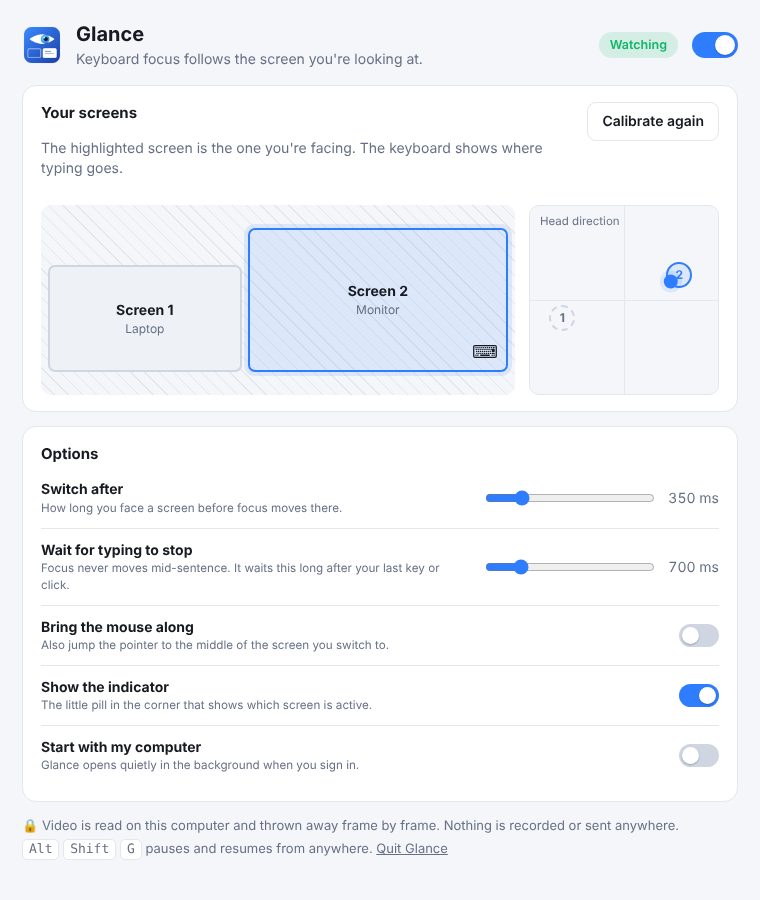
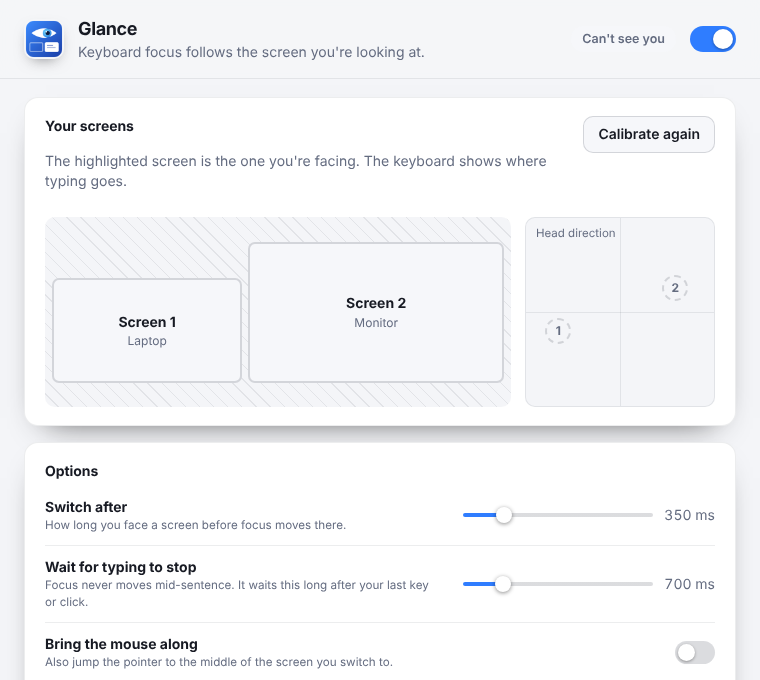
Sleeker settings window
Shared Chipper UI styles: sticky frosted header, cards that ease in,
smoother switches, accent-filled sliders with live values, matching light
and dark themes, and the same type in the calibration and indicator.
Also fixes a broken first rule in settings.css.

Claude-Session: https://claude.ai/code/session_01TZPYSw6e2Wc2aurNbLVprD

diff --git a/src/css/ui.css b/src/css/ui.css
@@ -1,0 +1,146 @@
+/* Chipper UI: the shared look for every Chipper app's windows.
+   Low-specificity (:where) base styles for form controls, so each app's own CSS
+   still wins. Each app sets --accent (and optionally --accent-ink for text on it). */
+:root {
+  --ui-bg: #0d0e12;
+  --ui-panel: #14161c;
+  --ui-panel-2: #1a1d24;
+  --ui-line: rgba(255, 255, 255, 0.075);
+  --ui-line-2: rgba(255, 255, 255, 0.13);
+  --ui-text: #eceef3;
+  --ui-dim: #8b91a1;
+  --ui-faint: #5f6575;
+  --accent: #6c8cff;
+  --accent-ink: #0b0d12;
+  --ui-radius: 14px;
+  --ui-ease: cubic-bezier(.2, .8, .2, 1);
+  --ui-font: Inter, 'Segoe UI Variable Text', 'Segoe UI', -apple-system, BlinkMacSystemFont, 'Helvetica Neue', Ubuntu, Cantarell, sans-serif;
+  --ui-mono: 'JetBrains Mono', 'Cascadia Code', 'SF Mono', Menlo, Consolas, monospace;
+}
+/* Apps that follow the system theme put class="ui-auto" on <html>. */
+@media (prefers-color-scheme: light) {
+  :root.ui-auto {
+    --ui-bg: #f4f5f8; --ui-panel: #ffffff; --ui-panel-2: #f6f7fa; --ui-line: rgba(16, 22, 38, 0.08); --ui-line-2: rgba(16, 22, 38, 0.15);
+    --ui-text: #171a23; --ui-dim: #646c80; --ui-faint: #9aa1b2; color-scheme: light;
+  }
+  :root.ui-auto .ui-card, :root.ui-auto .ui-section { box-shadow: 0 1px 2px rgba(16, 22, 38, 0.04), 0 12px 30px -22px rgba(16, 22, 38, 0.3); }
+}
+:root { color-scheme: dark; }
+[hidden] { display: none !important; }
+
+:where(body) { -webkit-font-smoothing: antialiased; -moz-osx-font-smoothing: grayscale; text-rendering: optimizeLegibility; }
+:where(button, input, select, textarea) { font: inherit; color: inherit; }
+:where(button) { cursor: pointer; }
+
+/* Switches: every checkbox becomes a smooth toggle. */
+:where(input[type=checkbox]) {
+  appearance: none; -webkit-appearance: none; flex: none; margin: 0; cursor: pointer;
+  width: 36px; height: 21px; border-radius: 999px; position: relative; vertical-align: middle;
+  background: var(--ui-line-2); transition: background 0.25s var(--ui-ease), box-shadow 0.2s;
+}
+:where(input[type=checkbox])::after {
+  content: ''; position: absolute; top: 2px; left: 2px; width: 17px; height: 17px; border-radius: 50%;
+  background: #fff; box-shadow: 0 1px 3px rgba(0, 0, 0, 0.35); transition: transform 0.25s var(--ui-ease);
+}
+:where(input[type=checkbox]:checked) { background: var(--accent); }
+:where(input[type=checkbox]:checked)::after { transform: translateX(15px); }
+:where(input[type=checkbox]:disabled) { opacity: 0.4; cursor: default; }
+
+/* Sliders: a thin track that fills with the accent and a soft round thumb. */
+:where(input[type=range]) {
+  appearance: none; -webkit-appearance: none; background: transparent; height: 22px; margin: 0; cursor: pointer;
+  --fill: 50%;
+}
+:where(input[type=range])::-webkit-slider-runnable-track {
+  height: 4px; border-radius: 4px;
+  background: linear-gradient(to right, var(--accent) var(--fill), var(--ui-line-2) var(--fill));
+}
+:where(input[type=range])::-moz-range-track { height: 4px; border-radius: 4px; background: var(--ui-line-2); }
+:where(input[type=range])::-moz-range-progress { height: 4px; border-radius: 4px; background: var(--accent); }
+:where(input[type=range])::-webkit-slider-thumb {
+  -webkit-appearance: none; width: 16px; height: 16px; margin-top: -6px; border-radius: 50%;
+  background: #fff; border: 0; box-shadow: 0 0 0 4px color-mix(in srgb, var(--accent) 0%, transparent), 0 1px 4px rgba(0, 0, 0, 0.45);
+  transition: box-shadow 0.2s, transform 0.15s var(--ui-ease);
+}
+:where(input[type=range])::-moz-range-thumb { width: 16px; height: 16px; border-radius: 50%; background: #fff; border: 0; box-shadow: 0 1px 4px rgba(0, 0, 0, 0.45); }
+:where(input[type=range]:hover)::-webkit-slider-thumb { box-shadow: 0 0 0 5px color-mix(in srgb, var(--accent) 22%, transparent), 0 1px 4px rgba(0, 0, 0, 0.45); }
+:where(input[type=range]:active)::-webkit-slider-thumb { transform: scale(1.1); }
+
+/* Text, number and select fields. */
+:where(input[type=text], input[type=number], input[type=search], input[type=time], input:not([type]), select, textarea) {
+  background: var(--ui-panel-2); border: 1px solid var(--ui-line-2); border-radius: 9px; padding: 7px 10px; outline: none;
+  transition: border-color 0.15s, box-shadow 0.15s;
+}
+:where(input[type=text], input[type=number], input[type=search], input[type=time], input:not([type]), select, textarea):focus {
+  border-color: color-mix(in srgb, var(--accent) 70%, transparent); box-shadow: 0 0 0 3px color-mix(in srgb, var(--accent) 18%, transparent);
+}
+:where(input[type=number]) { -moz-appearance: textfield; font-variant-numeric: tabular-nums; }
+:where(input[type=number])::-webkit-inner-spin-button, :where(input[type=number])::-webkit-outer-spin-button { -webkit-appearance: none; margin: 0; }
+:where(select) {
+  appearance: none; -webkit-appearance: none; padding-right: 28px; cursor: pointer;
+  background-image: linear-gradient(45deg, transparent 50%, var(--ui-dim) 50%), linear-gradient(135deg, var(--ui-dim) 50%, transparent 50%);
+  background-position: calc(100% - 15px) 52%, calc(100% - 10px) 52%; background-size: 5px 5px; background-repeat: no-repeat;
+}
+:where(input::placeholder, textarea::placeholder) { color: var(--ui-faint); }
+
+/* Focus rings only for keyboard users. */
+:where(:focus) { outline: none; }
+:where(:focus-visible) { outline: 2px solid color-mix(in srgb, var(--accent) 80%, transparent); outline-offset: 2px; }
+
+/* Scrollbars that stay out of the way. */
+::-webkit-scrollbar { width: 10px; height: 10px; }
+::-webkit-scrollbar-thumb { background: var(--ui-line-2); border-radius: 10px; border: 3px solid transparent; background-clip: padding-box; }
+::-webkit-scrollbar-thumb:hover { background-color: rgba(255, 255, 255, 0.2); }
+::-webkit-scrollbar-track { background: transparent; }
+
+/* Shared building blocks, used by apps that opt in. */
+.ui-card { background: var(--ui-panel); border: 1px solid var(--ui-line); border-radius: var(--ui-radius); box-shadow: 0 1px 0 rgba(255, 255, 255, 0.03) inset, 0 14px 32px -22px rgba(0, 0, 0, 0.85); }
+.ui-btn { border: 1px solid var(--ui-line-2); background: var(--ui-panel-2); border-radius: 10px; padding: 7px 14px; font-weight: 600; transition: border-color 0.15s, background 0.15s, transform 0.12s; }
+.ui-btn:hover { border-color: rgba(255, 255, 255, 0.25); }
+.ui-btn:active { transform: scale(0.98); }
+.ui-btn.primary { background: var(--accent); color: var(--accent-ink); border-color: transparent; box-shadow: 0 8px 20px -12px var(--accent); }
+.ui-btn.primary:hover { filter: brightness(1.07); }
+
+/* Settings page layout: header, a column of cards, rows of label + control. */
+body.ui { margin: 0; background: var(--ui-bg); color: var(--ui-text); font: 14px/1.45 var(--ui-font); }
+.ui-header { position: sticky; top: 0; z-index: 5; display: flex; align-items: center; gap: 14px; padding: 16px 28px; border-bottom: 1px solid var(--ui-line); background: color-mix(in srgb, var(--ui-bg) 84%, transparent); backdrop-filter: blur(14px); -webkit-backdrop-filter: blur(14px); }
+.ui-header img { width: 40px; height: 40px; border-radius: 10px; box-shadow: 0 6px 16px -8px rgba(0, 0, 0, 0.6); }
+.ui-header h1 { margin: 0; font-size: 18px; font-weight: 700; letter-spacing: -0.02em; }
+.ui-header p { margin: 1px 0 0; color: var(--ui-dim); font-size: 13px; }
+.ui-header .end { margin-left: auto; display: flex; align-items: center; gap: 10px; }
+.ui-page { max-width: 880px; margin: 0 auto; padding: 22px 28px 28px; display: flex; flex-direction: column; gap: 16px; }
+.ui-section { background: var(--ui-panel); border: 1px solid var(--ui-line); border-radius: var(--ui-radius); box-shadow: 0 1px 0 rgba(255, 255, 255, 0.03) inset, 0 14px 32px -22px rgba(0, 0, 0, 0.85); padding: 18px 20px; animation: ui-in 0.45s var(--ui-ease) both; }
+.ui-section:nth-child(2) { animation-delay: 40ms; } .ui-section:nth-child(3) { animation-delay: 80ms; } .ui-section:nth-child(n+4) { animation-delay: 120ms; }
+.ui-section > h2 { margin: 0; font-size: 14px; font-weight: 650; letter-spacing: -0.005em; display: flex; align-items: center; gap: 10px; }
+.ui-section > h2 .end { margin-left: auto; }
+.ui-section > .desc { margin: 3px 0 12px; color: var(--ui-dim); font-size: 13px; }
+.ui-section > h2 + .ui-row { margin-top: 6px; }
+.ui-row { display: flex; align-items: center; gap: 16px; padding: 12px 0; }
+.ui-row + .ui-row { border-top: 1px solid var(--ui-line); }
+.ui-row > .label { flex: 1; min-width: 0; }
+.ui-row > .label b { display: block; font-weight: 600; }
+.ui-row > .label small { display: block; margin-top: 1px; color: var(--ui-dim); font-size: 12.5px; }
+.ui-row input[type=range] { width: min(240px, 40vw); }
+.ui-row output { min-width: 52px; text-align: right; color: var(--ui-dim); font-variant-numeric: tabular-nums; font-size: 13px; }
+.ui-row input[type=text] { width: min(280px, 45vw); }
+.ui-footer { display: flex; align-items: center; justify-content: space-between; gap: 16px; padding: 2px 4px 0; color: var(--ui-faint); font-size: 12.5px; }
+.ui-link { border: 0; background: none; padding: 0; color: var(--ui-dim); text-decoration: underline; text-decoration-color: var(--ui-line-2); text-underline-offset: 3px; }
+.ui-link:hover { color: var(--ui-text); text-decoration-color: currentColor; }
+kbd { font: 11.5px/1.4 var(--ui-mono); padding: 1px 6px; border: 1px solid var(--ui-line-2); border-bottom-width: 2px; border-radius: 6px; background: var(--ui-panel-2); color: var(--ui-dim); }
+.ui-seg { display: inline-flex; padding: 3px; gap: 2px; background: var(--ui-panel-2); border: 1px solid var(--ui-line); border-radius: 10px; }
+.ui-seg button { border: 0; background: none; padding: 5px 12px; border-radius: 7px; color: var(--ui-dim); font-weight: 600; font-size: 13px; transition: background 0.2s, color 0.2s; }
+.ui-seg button:hover { color: var(--ui-text); }
+.ui-seg button.on, .ui-seg button[aria-checked=true], .ui-seg button[aria-pressed=true] { background: var(--ui-panel); color: var(--ui-text); box-shadow: 0 1px 3px rgba(0, 0, 0, 0.3), 0 0 0 1px var(--ui-line); }
+.ui-tile { border: 1px solid var(--ui-line); background: var(--ui-panel-2); border-radius: 12px; transition: border-color 0.2s, box-shadow 0.25s var(--ui-ease), transform 0.2s var(--ui-ease), background 0.2s; }
+.ui-tile:hover { border-color: var(--ui-line-2); transform: translateY(-1px); }
+.ui-tile.on, .ui-tile[aria-checked=true] { border-color: var(--accent); box-shadow: 0 0 0 1px var(--accent), 0 10px 26px -14px var(--accent); background: color-mix(in srgb, var(--accent) 8%, var(--ui-panel-2)); }
+.ui-badge { display: inline-flex; align-items: center; gap: 6px; padding: 3px 10px; border-radius: 999px; font-size: 12px; font-weight: 600; background: var(--ui-panel-2); border: 1px solid var(--ui-line-2); color: var(--ui-dim); }
+.ui-badge.live { color: var(--ui-text); }
+.ui-badge.live::before { content: ''; width: 7px; height: 7px; border-radius: 50%; background: var(--accent); box-shadow: 0 0 8px var(--accent); }
+
+@keyframes ui-in { from { opacity: 0; transform: translateY(6px); } }
+.ui-in { animation: ui-in 0.45s var(--ui-ease) both; }
+
+@media (prefers-reduced-motion: reduce) {
+  *, *::before, *::after { animation-duration: 0.01ms !important; transition-duration: 0.01ms !important; }
+}

diff --git a/src/css/settings.css b/src/css/settings.css
@@ -1,25 +1,19 @@
 :root {
-[hidden] { display: none !important; }
-  color-scheme: light dark;
-  --bg: #f4f6fa; --card: #fff; --text: #171a21; --muted: #667085; --line: #e3e7ee;
-  --accent: #2f7dff; --accent-soft: rgba(47, 125, 255, 0.12); --ok: #12b76a; --warn: #f5a524; --bad: #e5484d;
-  --screen: #eef1f6; --screen-line: #cfd6e2;
+  --accent: #5aa9ff; --accent-ink: #06121f;
+  --bg: var(--ui-bg); --card: var(--ui-panel); --text: var(--ui-text); --muted: var(--ui-dim); --line: var(--ui-line);
+  --accent-soft: color-mix(in srgb, var(--accent) 15%, transparent); --ok: #3ddc97; --warn: #f5b14c; --bad: #ff6b72;
+  --screen: var(--ui-panel-2); --screen-line: var(--ui-line-2);
 }
-@media (prefers-color-scheme: dark) {
-  :root {
-    --bg: #0f1116; --card: #171a21; --text: #eef1f6; --muted: #98a1b3; --line: #262b36;
-    --accent: #5aa9ff; --accent-soft: rgba(90, 169, 255, 0.16); --screen: #1e232d; --screen-line: #333a48;
-  }
-}
+@media (prefers-color-scheme: light) { :root.ui-auto { --accent: #2f7dff; --accent-ink: #fff; --ok: #12a764; --warn: #d48a0c; --bad: #e5484d; } }
 * { box-sizing: border-box; }
-html, body { margin: 0; background: var(--bg); color: var(--text); font: 14px/1.45 system-ui, -apple-system, 'Segoe UI', Ubuntu, sans-serif; }
-body { padding: 20px 22px 18px; max-width: 900px; margin: 0 auto; }
-header { display: flex; align-items: center; gap: 14px; margin-bottom: 16px; }
-header img { border-radius: 10px; }
+html, body { margin: 0; background: var(--bg); color: var(--text); font: 14px/1.45 var(--ui-font); }
+body { padding: 0 24px 22px; max-width: 900px; margin: 0 auto; }
+header { position: sticky; top: 0; z-index: 5; display: flex; align-items: center; gap: 14px; margin: 0 -24px 18px; padding: 16px 24px; border-bottom: 1px solid var(--ui-line); background: color-mix(in srgb, var(--ui-bg) 84%, transparent); backdrop-filter: blur(14px); -webkit-backdrop-filter: blur(14px); }
+header img { border-radius: 10px; box-shadow: 0 6px 16px -8px rgba(0, 0, 0, 0.6); }
 .brand { flex: 1; min-width: 0; }
-h1 { margin: 0; font-size: 20px; }
+h1 { margin: 0; font-size: 18px; font-weight: 700; letter-spacing: -0.02em; }
 .brand p { margin: 0; color: var(--muted); }
-h2 { margin: 0 0 2px; font-size: 15px; }
+h2 { margin: 0 0 2px; font-size: 14px; font-weight: 650; letter-spacing: -0.005em; }
 .muted, small { color: var(--muted); }
 .chip { padding: 4px 11px; border-radius: 999px; background: var(--screen); color: var(--muted); font-weight: 600; font-size: 12.5px; white-space: nowrap; }
 .chip[data-status='tracking'] { background: rgba(18, 183, 106, 0.14); color: var(--ok); }
@@ -27,11 +21,13 @@ h2 { margin: 0 0 2px; font-size: 15px; }
 .chip[data-status='nocamera'] { background: rgba(229, 72, 77, 0.14); color: var(--bad); }
 .chip[data-status='uncalibrated'], .chip[data-status='calibrating'] { background: var(--accent-soft); color: var(--accent); }
 
-.card { background: var(--card); border: 1px solid var(--line); border-radius: 14px; padding: 16px 18px; margin-bottom: 14px; }
+.card { background: var(--card); border: 1px solid var(--line); border-radius: var(--ui-radius); padding: 18px 20px; margin-bottom: 16px; box-shadow: 0 1px 0 rgba(255, 255, 255, 0.03) inset, 0 14px 32px -22px rgba(0, 0, 0, 0.85); animation: ui-in 0.45s var(--ui-ease) both; }
+.card:nth-of-type(2) { animation-delay: 40ms; } .card:nth-of-type(3) { animation-delay: 80ms; } .card:nth-of-type(n+4) { animation-delay: 120ms; }
 .card-head { display: flex; gap: 16px; align-items: flex-start; justify-content: space-between; margin-bottom: 12px; }
-button { font: inherit; font-weight: 600; padding: 8px 14px; border-radius: 9px; border: 1px solid var(--line); background: var(--card); color: var(--text); cursor: pointer; white-space: nowrap; }
-button:hover { border-color: var(--accent); }
-button.primary { background: var(--accent); border-color: var(--accent); color: #fff; }
+button { font: inherit; font-weight: 600; padding: 7px 14px; border-radius: 10px; border: 1px solid var(--ui-line-2); background: var(--ui-panel-2); color: var(--text); cursor: pointer; white-space: nowrap; transition: border-color 0.15s, background 0.15s, transform 0.12s; }
+button:hover { border-color: color-mix(in srgb, var(--accent) 60%, transparent); }
+button:active { transform: scale(0.98); }
+button.primary { background: var(--accent); border-color: var(--accent); color: var(--accent-ink); box-shadow: 0 8px 20px -12px var(--accent); }
 button:disabled { opacity: 0.5; cursor: default; }
 button.link { padding: 0; border: 0; background: none; color: var(--muted); text-decoration: underline; font-weight: 400; }
 
@@ -62,14 +58,15 @@ button.link { padding: 0; border: 0; background: none; color: var(--muted); text
 .row > div:first-child { display: flex; flex-direction: column; }
 label.row { cursor: pointer; }
 .range { display: flex; align-items: center; gap: 10px; flex: none; }
-.range input { width: 170px; accent-color: var(--accent); }
+.range input { width: 190px; }
 .range output { width: 52px; text-align: right; font-variant-numeric: tabular-nums; color: var(--muted); }
 
 .switch { position: relative; display: inline-block; width: 40px; height: 23px; flex: none; }
 .switch.big { width: 46px; height: 26px; }
-.switch input { position: absolute; opacity: 0; inset: 0; margin: 0; cursor: pointer; }
-.switch span { position: absolute; inset: 0; border-radius: 999px; background: var(--screen-line); transition: background 0.15s; pointer-events: none; }
-.switch span::after { content: ''; position: absolute; top: 3px; left: 3px; width: calc(100% - 23px); aspect-ratio: 1; border-radius: 50%; background: #fff; box-shadow: 0 1px 2px rgba(0, 0, 0, 0.25); transition: transform 0.15s; }
+.switch input { position: absolute; opacity: 0; inset: 0; margin: 0; cursor: pointer; width: 100%; height: 100%; }
+.switch input::after { display: none; }
+.switch span { position: absolute; inset: 0; border-radius: 999px; background: var(--screen-line); transition: background 0.25s var(--ui-ease); pointer-events: none; }
+.switch span::after { content: ''; position: absolute; top: 3px; left: 3px; width: calc(100% - 23px); aspect-ratio: 1; border-radius: 50%; background: #fff; box-shadow: 0 1px 3px rgba(0, 0, 0, 0.35); transition: transform 0.25s var(--ui-ease); }
 .switch.big span::after { width: 20px; }
 .switch:not(.big) span::after { width: 17px; }
 .switch input:checked + span { background: var(--accent); }

diff --git a/src/js/ui.js b/src/js/ui.js
@@ -1,0 +1,32 @@
+// Chipper UI helper: keeps each slider's filled part in step with its value.
+// A slider with an id also updates <output for="id">, formatted by data-format:
+// "pct" (0..1 as a percentage), "px", "ms", "x" (a multiplier), or a unit word.
+const FORMATS = {
+  pct: (v) => `${Math.round(v * 100)}%`,
+  px: (v) => `${Math.round(v)} px`,
+  ms: (v) => `${Math.round(v)} ms`,
+  x: (v) => `${v.toFixed(1)}×`,
+};
+const paint = (r) => {
+  const min = Number(r.min || 0), max = Number(r.max || 100), v = Number(r.value);
+  const fill = `${((v - min) / (max - min || 1)) * 100}%`;
+  if (r.style.getPropertyValue('--fill') !== fill) r.style.setProperty('--fill', fill);
+  if (r.id) {
+    const out = document.querySelector(`output[for="${r.id}"]`);
+    const f = r.dataset.format;
+    const text = FORMATS[f] ? FORMATS[f](v) : f ? `${v} ${f}` : String(v);
+    // Only touch the text when it changes, so the observer below doesn't loop.
+    if (out && out.textContent !== text) out.textContent = text;
+  }
+};
+const all = () => document.querySelectorAll('input[type=range]').forEach(paint);
+document.addEventListener('input', (e) => { if (e.target.matches?.('input[type=range]')) paint(e.target); });
+// Values set from script don't fire events, so catch those too.
+const desc = Object.getOwnPropertyDescriptor(HTMLInputElement.prototype, 'value');
+Object.defineProperty(HTMLInputElement.prototype, 'value', {
+  ...desc,
+  set(v) { desc.set.call(this, v); if (this.type === 'range') paint(this); },
+});
+new MutationObserver(all).observe(document.documentElement, { subtree: true, childList: true });
+addEventListener('DOMContentLoaded', all);
+all();

diff --git a/src/css/calibrate.css b/src/css/calibrate.css
@@ -1,6 +1,6 @@
 :root { color-scheme: dark; --accent: #5aa9ff; }
 [hidden] { display: none !important; }
-html, body { margin: 0; height: 100%; background: #0d0f14; color: #eef1f6; font: 16px/1.5 system-ui, -apple-system, 'Segoe UI', Ubuntu, sans-serif; cursor: default; user-select: none; }
+html, body { margin: 0; height: 100%; background: #0d0f14; color: #eef1f6; font: 16px/1.5 Inter, 'Segoe UI Variable Text', 'Segoe UI', -apple-system, BlinkMacSystemFont, Ubuntu, sans-serif; -webkit-font-smoothing: antialiased; cursor: default; user-select: none; }
 body { display: grid; place-items: center; background: radial-gradient(circle at 50% 45%, #182030 0, #0d0f14 60%); }
 main { text-align: center; max-width: 34rem; padding: 0 24px; }
 .step { margin: 0 0 28px; color: #8f98aa; letter-spacing: 0.08em; text-transform: uppercase; font-size: 13px; font-weight: 600; }

diff --git a/src/css/pill.css b/src/css/pill.css
@@ -1,5 +1,5 @@
 :root { color-scheme: dark; }
-html, body { margin: 0; background: transparent; overflow: hidden; font: 13px/1.1 system-ui, -apple-system, 'Segoe UI', Ubuntu, sans-serif; }
+html, body { margin: 0; background: transparent; overflow: hidden; font: 13px/1.1 Inter, 'Segoe UI Variable Text', 'Segoe UI', -apple-system, BlinkMacSystemFont, Ubuntu, sans-serif; -webkit-font-smoothing: antialiased; }
 video { position: absolute; width: 1px; height: 1px; opacity: 0; pointer-events: none; }
 .pill {
   all: unset; box-sizing: border-box; cursor: default;

diff --git a/src/settings.html b/src/settings.html
@@ -1,12 +1,14 @@
 <!doctype html>
-<html lang="en">
+<html lang="en" class="ui-auto">
 <head>
   <meta charset="utf-8">
   <meta name="viewport" content="width=device-width, initial-scale=1">
   <title>Glance</title>
+  <link rel="stylesheet" href="css/ui.css">
   <link rel="stylesheet" href="css/settings.css">
+  <script src="js/ui.js"></script>
 </head>
-<body>
+<body class="ui">
   <header>
     <img src="icon.png" alt="" width="40" height="40">
     <div class="brand">
